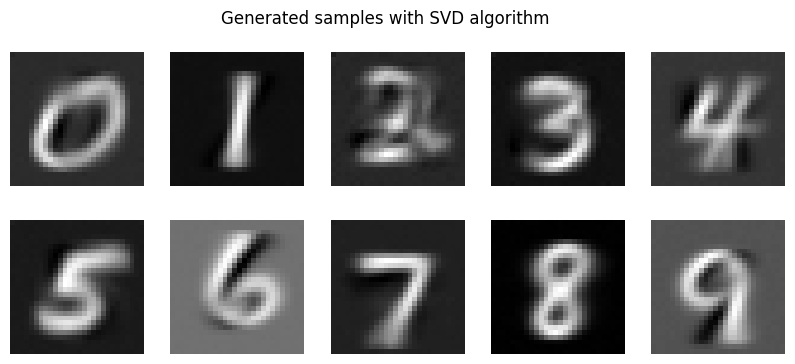
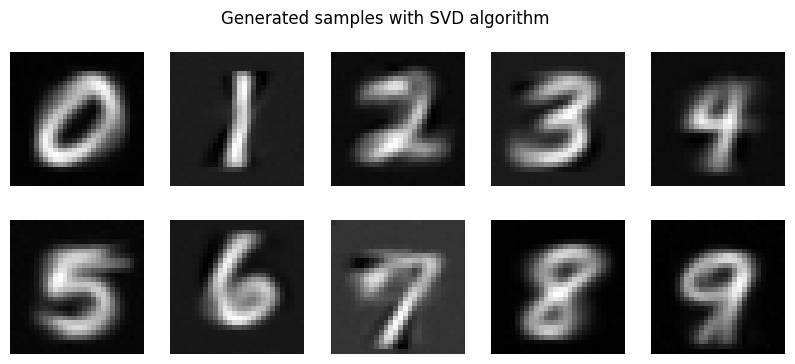
refactor PCA sampling

diff --git a/diffusion/ppca/src/sample_utils.py b/diffusion/ppca/src/sample_utils.py
@@ -2,27 +2,46 @@ import numpy as np
 from numpy import random
 
 from .svd import golub_kahan_svd, naive_svd
+from .em import ppca, compute_likelihood_pca, rotate_W_orthogonal
 
 
-def generate_sample_conditionned(X: np.array, keep: int, golub_svd: bool = True):
-    # can't have zero columns
-    X += 0.5 * np.random.randn(*X.shape)
+def generate_sample_conditionned(
+    X: np.array, q: int, golub_svd: bool = True, probabilistic=False
+):
+    """
+    Generate a PCA sample with q orthogonal components from un-centered data X with shape (d, N)
+    where d is the sample dimension and N the number of samples.
 
-    if golub_svd:
-        U, S, V = golub_kahan_svd(X.copy(), max_step=2)
+    """
+    mu = np.mean(X, axis=0)
+    X = X - mu
+
+    if probabilistic:
+        W, s = ppca(X.T, q)
+        l = compute_likelihood_pca(X.T, W.copy(), s)
+        print(f"Final parameters log-likelihood : {np.round(l, decimals=2)}")
+        print("Recovering orthogonal components matrix...")
+        W = rotate_W_orthogonal(W)
+        sample = np.sum(W, axis=1)
     else:
-        U, S, V = naive_svd(X.copy())
+        # * can't have zero columns with the current implementation !
+        X += 0.5 * np.random.randn(*X.shape)
 
-    s = np.diag(S).copy()
-    s[keep:] = 0.0
+        if golub_svd:
+            U, S, V = golub_kahan_svd(X, max_step=2)
+        else:
+            U, S, V = naive_svd(X)
 
-    s = np.diag(s)
+        s = np.diag(S).copy()  # need assignements enabled
+        s[q:] = 0.0
 
-    samples = U[:, :keep] @ s[:keep, :keep] @ V.T[:keep, :]
+        s = np.diag(s)
 
-    sample = samples[0]
-    sample = sample.reshape(28, 28)
-    return sample
+        samples = U[:, :q] @ s[:q, :q] @ V.T[:q, :]
+
+        sample = np.sum(samples, axis=0)
+
+    return (sample + mu).reshape(28, 28)
 
 
 def get_samples_and_normalize(data: np.array, cl: np.array, n_samples: int, label: int):

diff --git a/diffusion/ppca/run_pca_sampling.py b/diffusion/ppca/run_pca_sampling.py
@@ -3,7 +3,7 @@ from argparse import ArgumentParser
 from datasets import load_dataset
 from matplotlib import pyplot as plt
 
-from src.em import ppca, rotate_W_orthogonal
+from src.em import ppca, rotate_W_orthogonal, compute_likelihood_pca
 from src.sample_utils import get_samples_and_normalize, generate_sample_conditionned
 
 
@@ -23,22 +23,23 @@ if __name__ == "__main__":
     fig_ppca, axs_ppca = plt.subplots(figsize=(10, 4), ncols=5, nrows=2)
 
     for label in range(10):
+        print(f"\nDigit : {label}")
+        print("Get samples subset...")
         X = get_samples_and_normalize(data, cl, n_samples, label)
 
-        sample = generate_sample_conditionned(X.copy(), n_components)
+        print("Generating new PCA samples from SVD...")
+        sample_svd = generate_sample_conditionned(X.copy(), n_components)
 
-        mu = np.mean(X.T, axis=1).reshape(-1, 1)
-
-        W, s = ppca((X.T - mu).copy(), 2)
-        W = rotate_W_orthogonal(W)
+        print("Generating samples with Probabilistic PCA...")
+        sample_ppca = generate_sample_conditionned(
+            X.copy(), n_components, probabilistic=True
+        )
 
         r, c = label // 5, label % 5
         axs[r, c].axis("off")
-        axs[r, c].imshow(sample.copy(), cmap="gray")
+        axs[r, c].imshow(sample_svd.copy(), cmap="gray")
         axs_ppca[r, c].axis("off")
-        axs_ppca[r, c].imshow(
-            np.sum(mu + W, axis=1).reshape(28, 28).copy(), cmap="gray"
-        )
+        axs_ppca[r, c].imshow(sample_ppca.copy(), cmap="gray")
 
     fig.suptitle("Generated samples with SVD algorithm")
     fig_ppca.suptitle("Generated samples with Proba PCA algorithm")

diff --git a/diffusion/ppca/src/em.py b/diffusion/ppca/src/em.py
@@ -5,14 +5,14 @@ from src.svd import golub_kahan_svd
 
 def compute_likelihood_pca(A: np.ndarray, W: np.ndarray, s: float) -> float:
     """
-    First draft
+    First draft to compute the log likelihood associated with the current projection
     """
     d, N = A.shape
     C = W @ W.T
     C[np.diag_indices(d)] += s
     return -(
         np.log(np.clip(np.linalg.det(C), min=1e-3, max=1000.0))
-        + np.trace(np.linalg.inv(C) @ A @ A.T / N)
+        + np.trace(inverse_dp(C) @ A @ A.T / N)
     )
 
 
